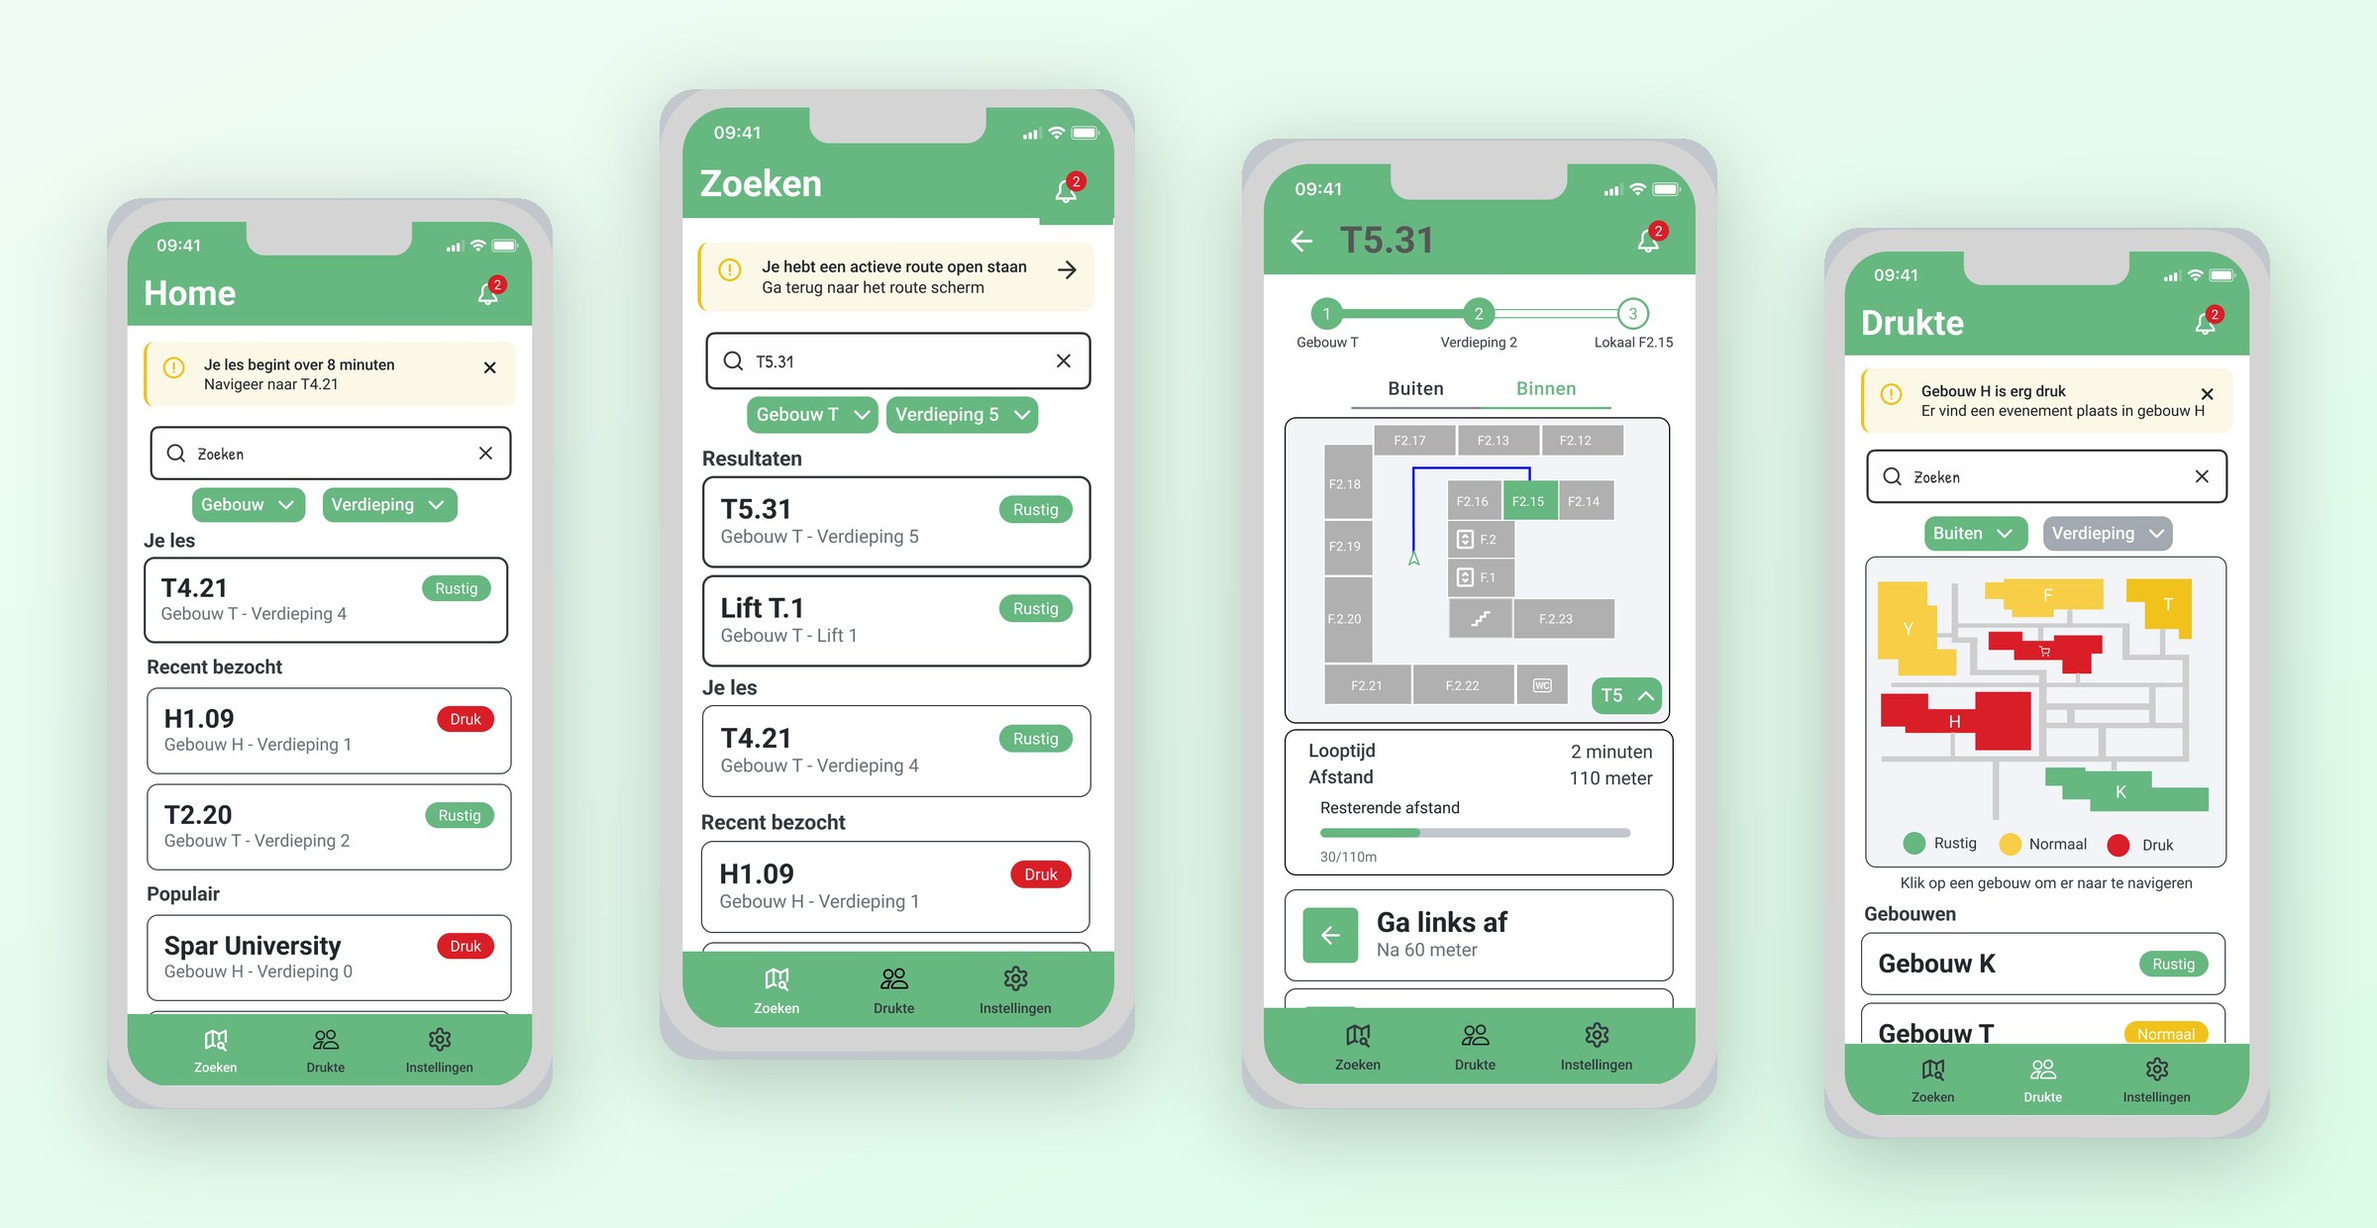
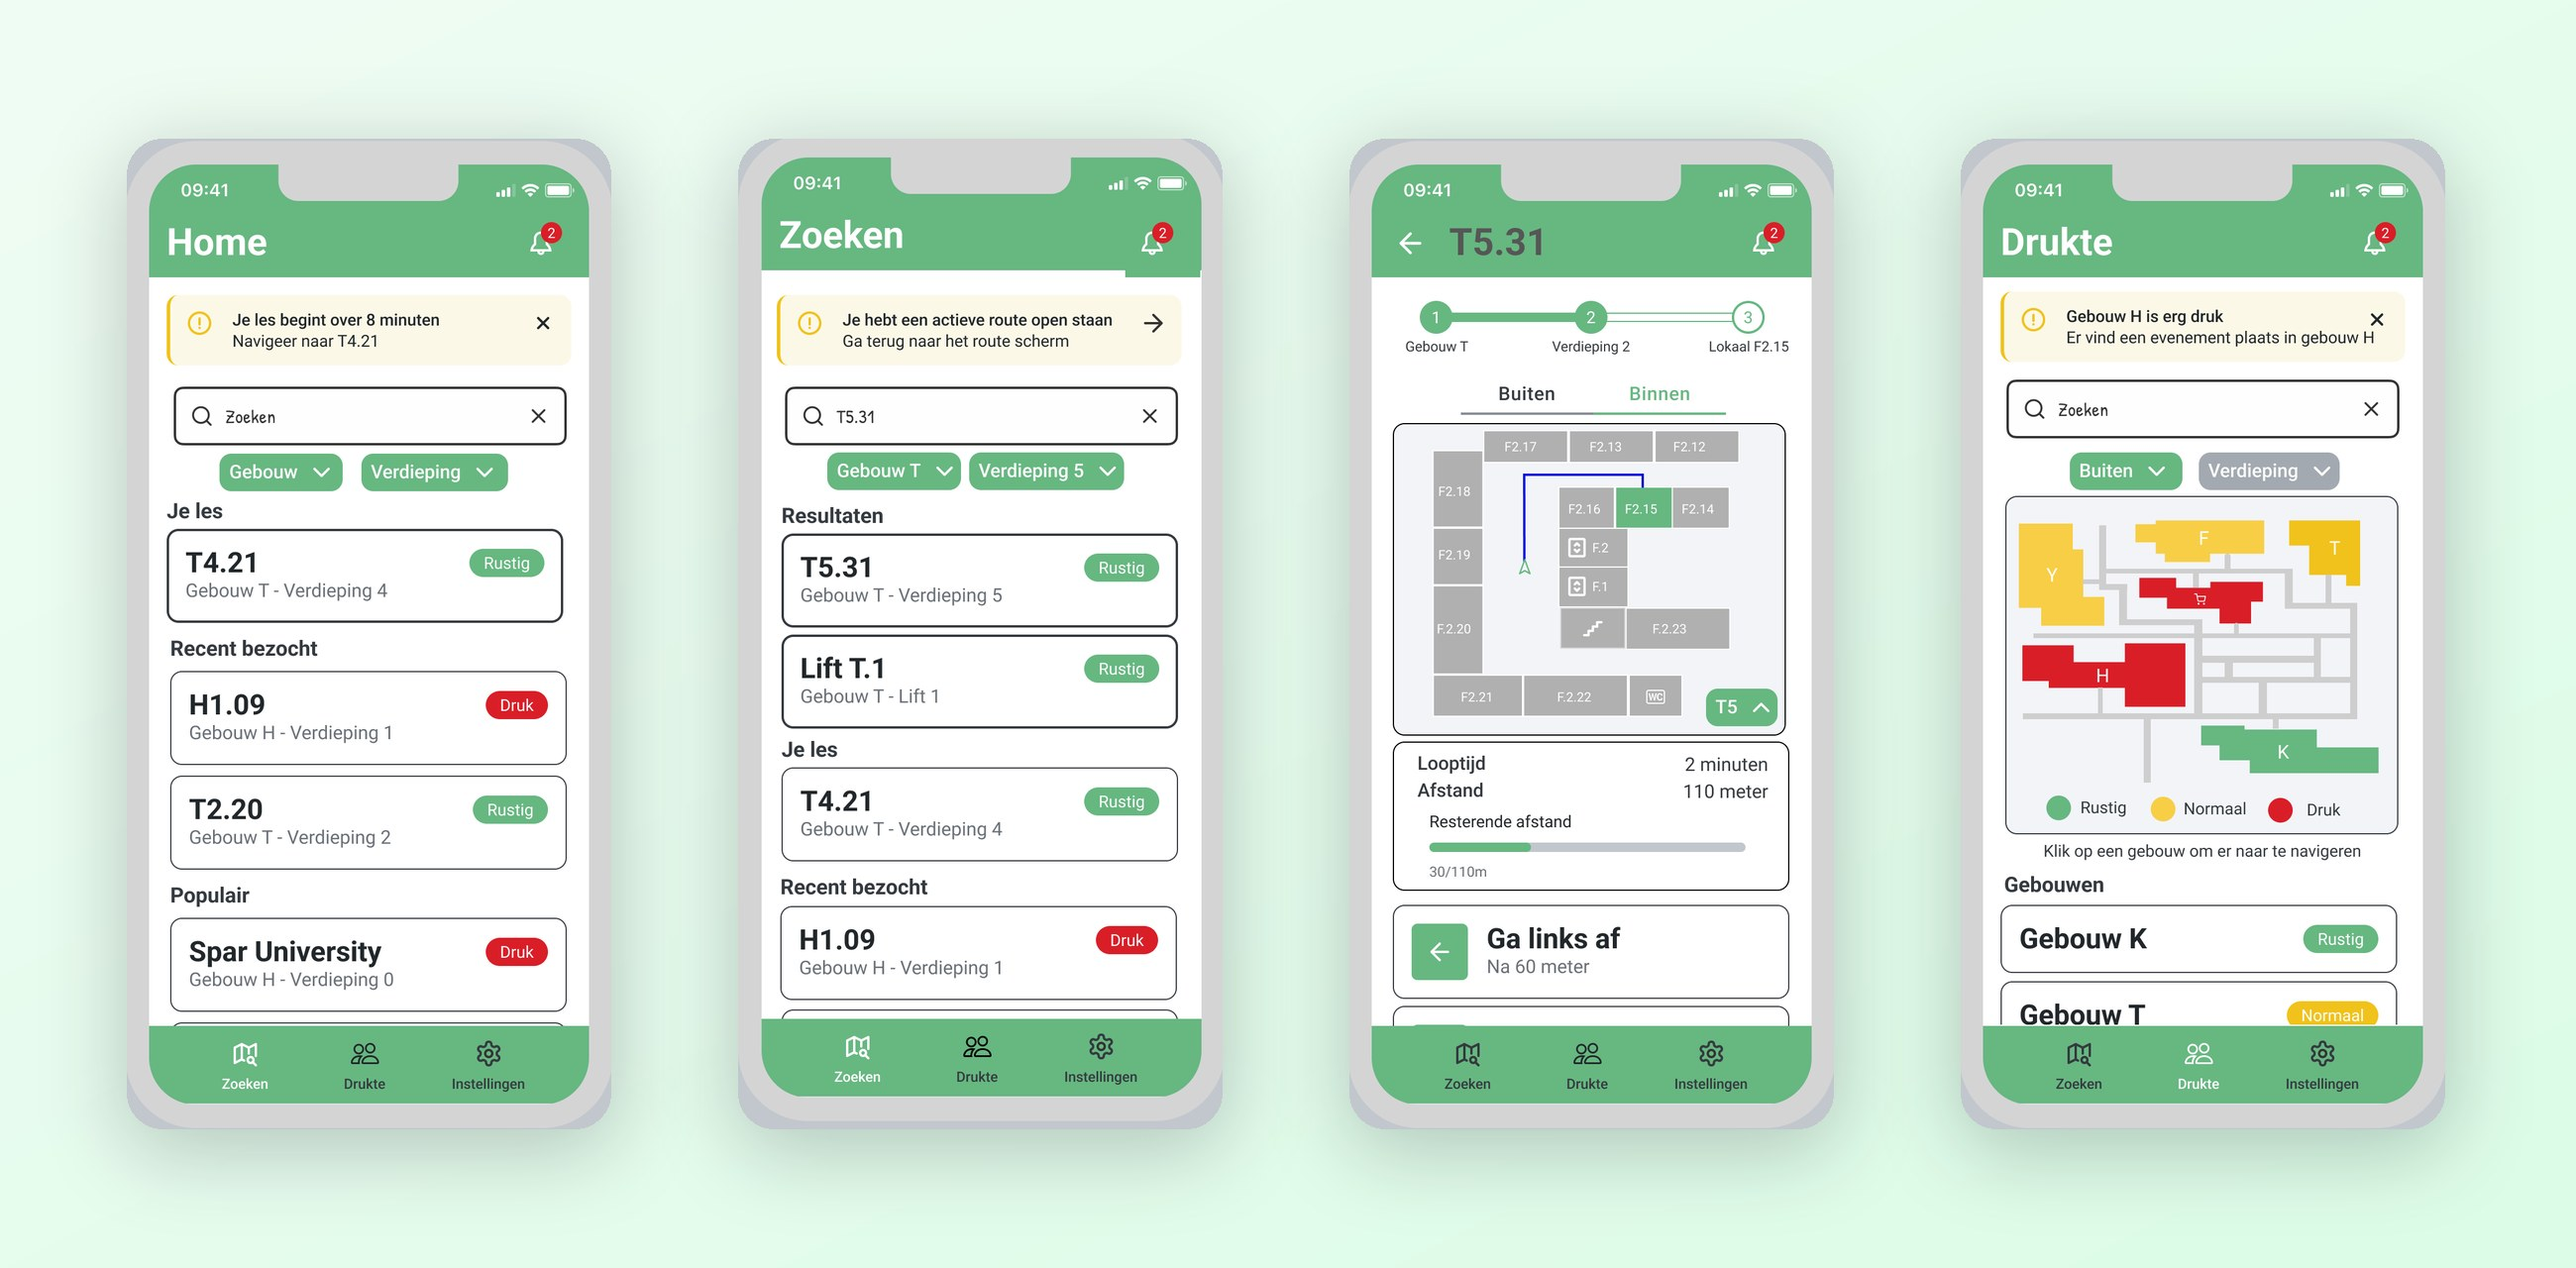
polish: one consistent style for all campus case visuals

Changed region(s): [[0.0312, 0.0613, 0.5, 0.9194], [0.75, 0.0919, 0.9688, 0.95], [0.5312, 0.0919, 0.7188, 0.9194]]

diff --git a/projecten/campus-app.html b/projecten/campus-app.html
@@ -156,10 +156,10 @@
               <p>Grote knoppen, een hoge-contrastmodus, een schakelaar voor rolstoelvriendelijke routes en taalkeuze, allemaal bereikbaar via instellingen met herkenbare iconen.</p>
             </li>
           </ul>
-          <img data-reveal loading="lazy" decoding="async" src="../assets/images/projecten/campus/wireframes.png" alt="Low-fidelity wireframes van de complete navigatieflow" width="1800" height="1328">
+          <img data-reveal loading="lazy" decoding="async" src="../assets/images/projecten/campus/wireframes.jpg" alt="Low-fidelity wireframes van de complete navigatieflow" width="1940" height="1468">
         </div>
         <figure class="case-figure" data-reveal>
-          <img loading="lazy" decoding="async" src="../assets/images/projecten/campus/toegankelijkheid.jpg" alt="Het instellingenscherm met routetype, taalkeuze en grote tekst, naast de druktekaart van een verdieping" width="2000" height="1200">
+          <img loading="lazy" decoding="async" src="../assets/images/projecten/campus/toegankelijkheid.jpg" alt="Het instellingenscherm met routetype, taalkeuze en grote tekst, naast de druktekaart van een verdieping" width="2000" height="1280">
           <figcaption>Links de instellingen: routetype, taal en grote tekst staan op hetzelfde niveau als de rest van de app. Rechts de druktekaart, waar rood, geel en groen in één oogopslag laten zien waar het rustig is.</figcaption>
         </figure>
       </div>
@@ -171,12 +171,12 @@
         <h2 id="systeem-title" data-reveal>Het ontwerpsysteem</h2>
         <p data-reveal>Omdat we met vijf mensen aan hetzelfde prototype werkten, legden we eerst de bouwstenen vast. Een typografieschaal in Roboto met zes kopniveaus op een vaste regelhoogte, en een kleurenpalet met de campuskleuren plus semantische kleuren voor fouten, waarschuwingen en bevestigingen. Die laatste bepalen ook de rood-geel-groencodering van de druktekaart.</p>
         <figure class="case-figure" data-reveal>
-          <img loading="lazy" decoding="async" src="../assets/images/projecten/campus/ontwerpsysteem-typografie.png" alt="Typografieschaal met zes kopniveaus en body-formaten, met per regel het gewicht, de grootte en de regelhoogte" width="1238" height="735">
-          <figcaption>De typografieschaal. Elk niveau ligt vast in gewicht, grootte, regelhoogte en letterafstand, zodat vijf mensen dezelfde koppen bouwen.</figcaption>
+          <a class="zoom" href="../assets/images/projecten/campus/ontwerpsysteem-typografie.png" target="_blank" rel="noopener" aria-label="Typografieschaal op ware grootte openen"><img loading="lazy" decoding="async" src="../assets/images/projecten/campus/ontwerpsysteem-typografie.png" alt="Typografieschaal met zes kopniveaus, body-formaten, captions en knoppen, met per regel het gewicht, de grootte en de regelhoogte" width="1414" height="1320"></a>
+          <figcaption>De typografieschaal. Elk niveau ligt vast in gewicht, grootte, regelhoogte en letterafstand, zodat vijf mensen dezelfde koppen bouwen. Klik of tik om te vergroten.</figcaption>
         </figure>
         <figure class="case-figure" data-reveal>
-          <img loading="lazy" decoding="async" src="../assets/images/projecten/campus/ontwerpsysteem-kleuren.png" alt="Kleurenpalet met naam en hexcode per kleur: drie primaire tinten, Windesheim geel, en kleuren voor fout, waarschuwing en geslaagd" width="1246" height="717">
-          <figcaption>Het kleurenpalet, met daaronder nog een grijsschaal van tien stappen. Doordat iedereen dezelfde namen gebruikte, bleven de schermen consistent zonder dat we elke keuze opnieuw hoefden te bespreken.</figcaption>
+          <a class="zoom" href="../assets/images/projecten/campus/ontwerpsysteem-kleuren.png" target="_blank" rel="noopener" aria-label="Kleurenpalet op ware grootte openen"><img loading="lazy" decoding="async" src="../assets/images/projecten/campus/ontwerpsysteem-kleuren.png" alt="Kleurenpalet met naam en hexcode per kleur: drie primaire tinten, Windesheim geel, kleuren voor fout, waarschuwing en geslaagd, en een grijsschaal van tien stappen" width="1411" height="1250"></a>
+          <figcaption>Het volledige kleurenpalet, van de campuskleuren tot de grijsschaal. Doordat iedereen dezelfde namen gebruikte, bleven de schermen consistent zonder dat we elke keuze opnieuw hoefden te bespreken. Klik of tik om te vergroten.</figcaption>
         </figure>
       </div>
     </section>
@@ -201,7 +201,7 @@
           </li>
         </ul>
         <figure class="case-figure" data-reveal>
-          <img loading="lazy" decoding="async" src="../assets/images/projecten/campus/dialogen.jpg" alt="Drie dialoogvensters: verbinding verbroken, route annuleren en navigatie starten" width="2400" height="1180">
+          <img loading="lazy" decoding="async" src="../assets/images/projecten/campus/dialogen.jpg" alt="Drie dialoogvensters: verbinding verbroken, route annuleren en navigatie starten" width="2400" height="1280">
           <figcaption>Uit de tests kwam ook dat het onduidelijk was wat er gebeurde als iets misging. We ontwierpen daarom expliciete dialogen voor een verbroken verbinding, het annuleren van een route en het starten van een nieuwe navigatie, elk met een duidelijke uitweg.</figcaption>
         </figure>
       </div>
@@ -212,7 +212,7 @@
       <div class="container" data-reveal>
         <h2 id="resultaat-title">Het eindresultaat</h2>
         <p class="lead">Een high-fidelity prototype dat de complete flow dekt: van zoeken via gebouw en verdieping tot stap-voor-stap navigatie met tijdsindicatie, drukte-informatie en een bevestiging bij aankomst.</p>
-        <img loading="lazy" decoding="async" src="../assets/images/projecten/campus/resultaat.jpg" alt="High-fidelity schermen van de Campus Navigation Companion" width="2400" height="1240">
+        <img loading="lazy" decoding="async" src="../assets/images/projecten/campus/resultaat.jpg" alt="Vier high-fidelity schermen: home, zoeken, navigeren en drukte" width="2600" height="1280">
       </div>
     </section>
 

diff --git a/css/pages.css b/css/pages.css
@@ -615,6 +615,17 @@
   box-shadow: var(--shadow-1);
 }
 
+/* Detailrijke beelden (tabellen) kun je op ware grootte openen */
+.case-figure .zoom {
+  display: block;
+  border-radius: var(--radius-lg);
+  transition: box-shadow 200ms ease;
+}
+
+.case-figure .zoom:hover img {
+  box-shadow: var(--shadow-2);
+}
+
 .case-figure figcaption {
   margin-top: var(--space-md);
   font-size: var(--label-sm);

diff --git a/assets/images/AANLEVEREN.md b/assets/images/AANLEVEREN.md
@@ -8,8 +8,16 @@
 | `portret-overmij.jpg` (900×900) | Over mij, bio-kaart | zelfde foto, ruimere uitsnede |
 | `portret-teaser.jpg` (600×600) | Home, "Gedreven door nieuwsgierigheid" | echte foto in de bergen |
 | `project-1-thumb.jpg` (2400×1280) | Home, Projecten, case-header Campus | Figma-export, samengestelde collage |
-| `projecten/campus/wireframes.png` (1800×1328) | Case Campus, wireframes | Figma-export low-fi bord |
-| `projecten/campus/resultaat.jpg` (2400×1240) | Case Campus, eindresultaat | Figma-export, samengestelde collage |
+| `projecten/campus/wireframes.jpg` (1940×1468) | Case Campus, wireframes | Figma-export low-fi bord |
+| `projecten/campus/toegankelijkheid.jpg` (2000×1280) | Case Campus, ontwerpkeuzes | Figma-export, samengestelde collage |
+| `projecten/campus/ontwerpsysteem-typografie.png` (1414×1320) | Case Campus, ontwerpsysteem | uitsnede ontwerpsysteem-bord |
+| `projecten/campus/ontwerpsysteem-kleuren.png` (1411×1250) | Case Campus, ontwerpsysteem | uitsnede ontwerpsysteem-bord |
+| `projecten/campus/dialogen.jpg` (2400×1280) | Case Campus, testen &amp; iteraties | Figma-export, samengestelde collage |
+| `projecten/campus/resultaat.jpg` (2600×1280) | Case Campus, eindresultaat | Figma-export, samengestelde collage |
+
+De campus-collages zijn opgebouwd met één gedeelde stijl: alle schermen even
+hoog, op één lijn, gelijke tussenruimtes, mint-verloop als achtergrond en
+dezelfde ronding en schaduw. Houd die stijl aan als je er beelden bij maakt.
 
 ## Nog placeholder
 
